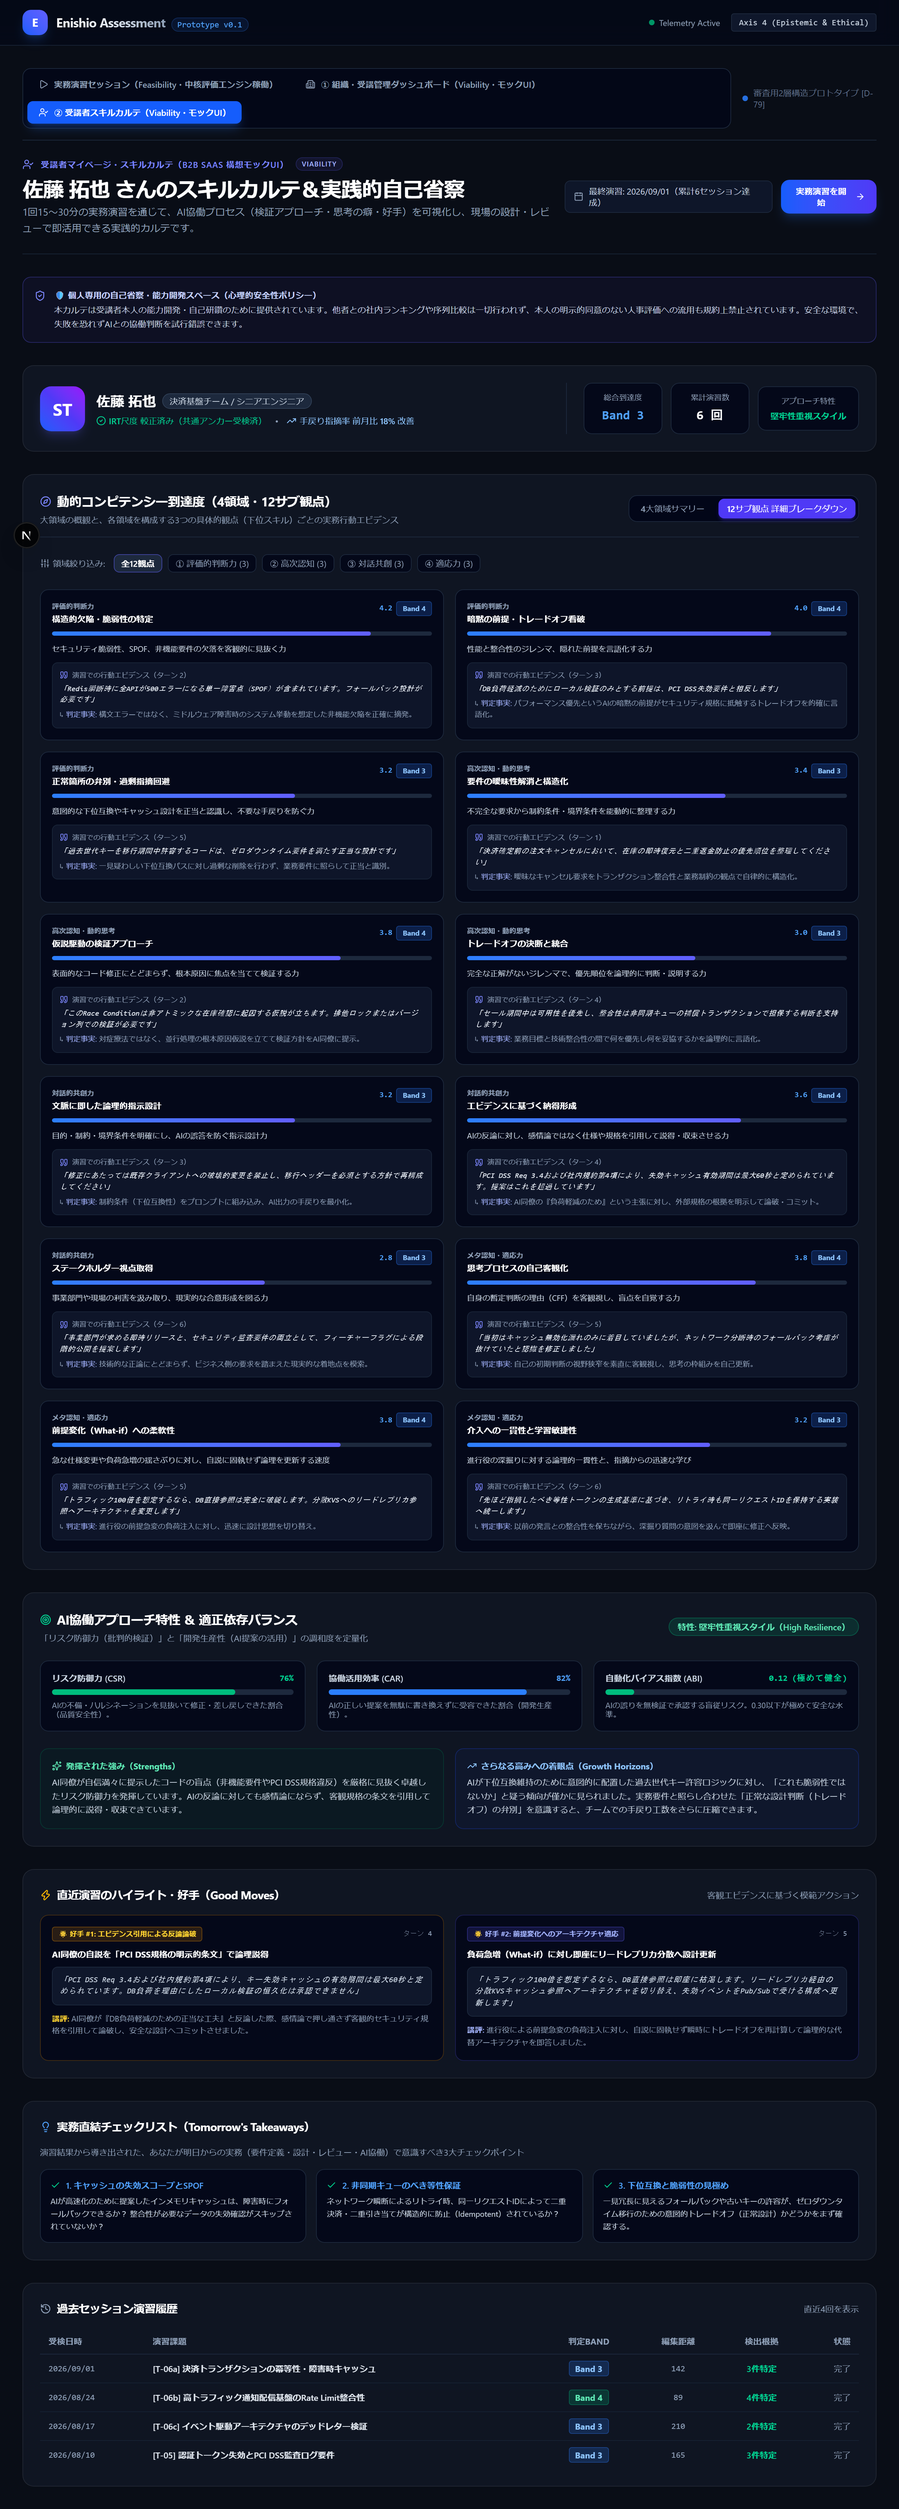
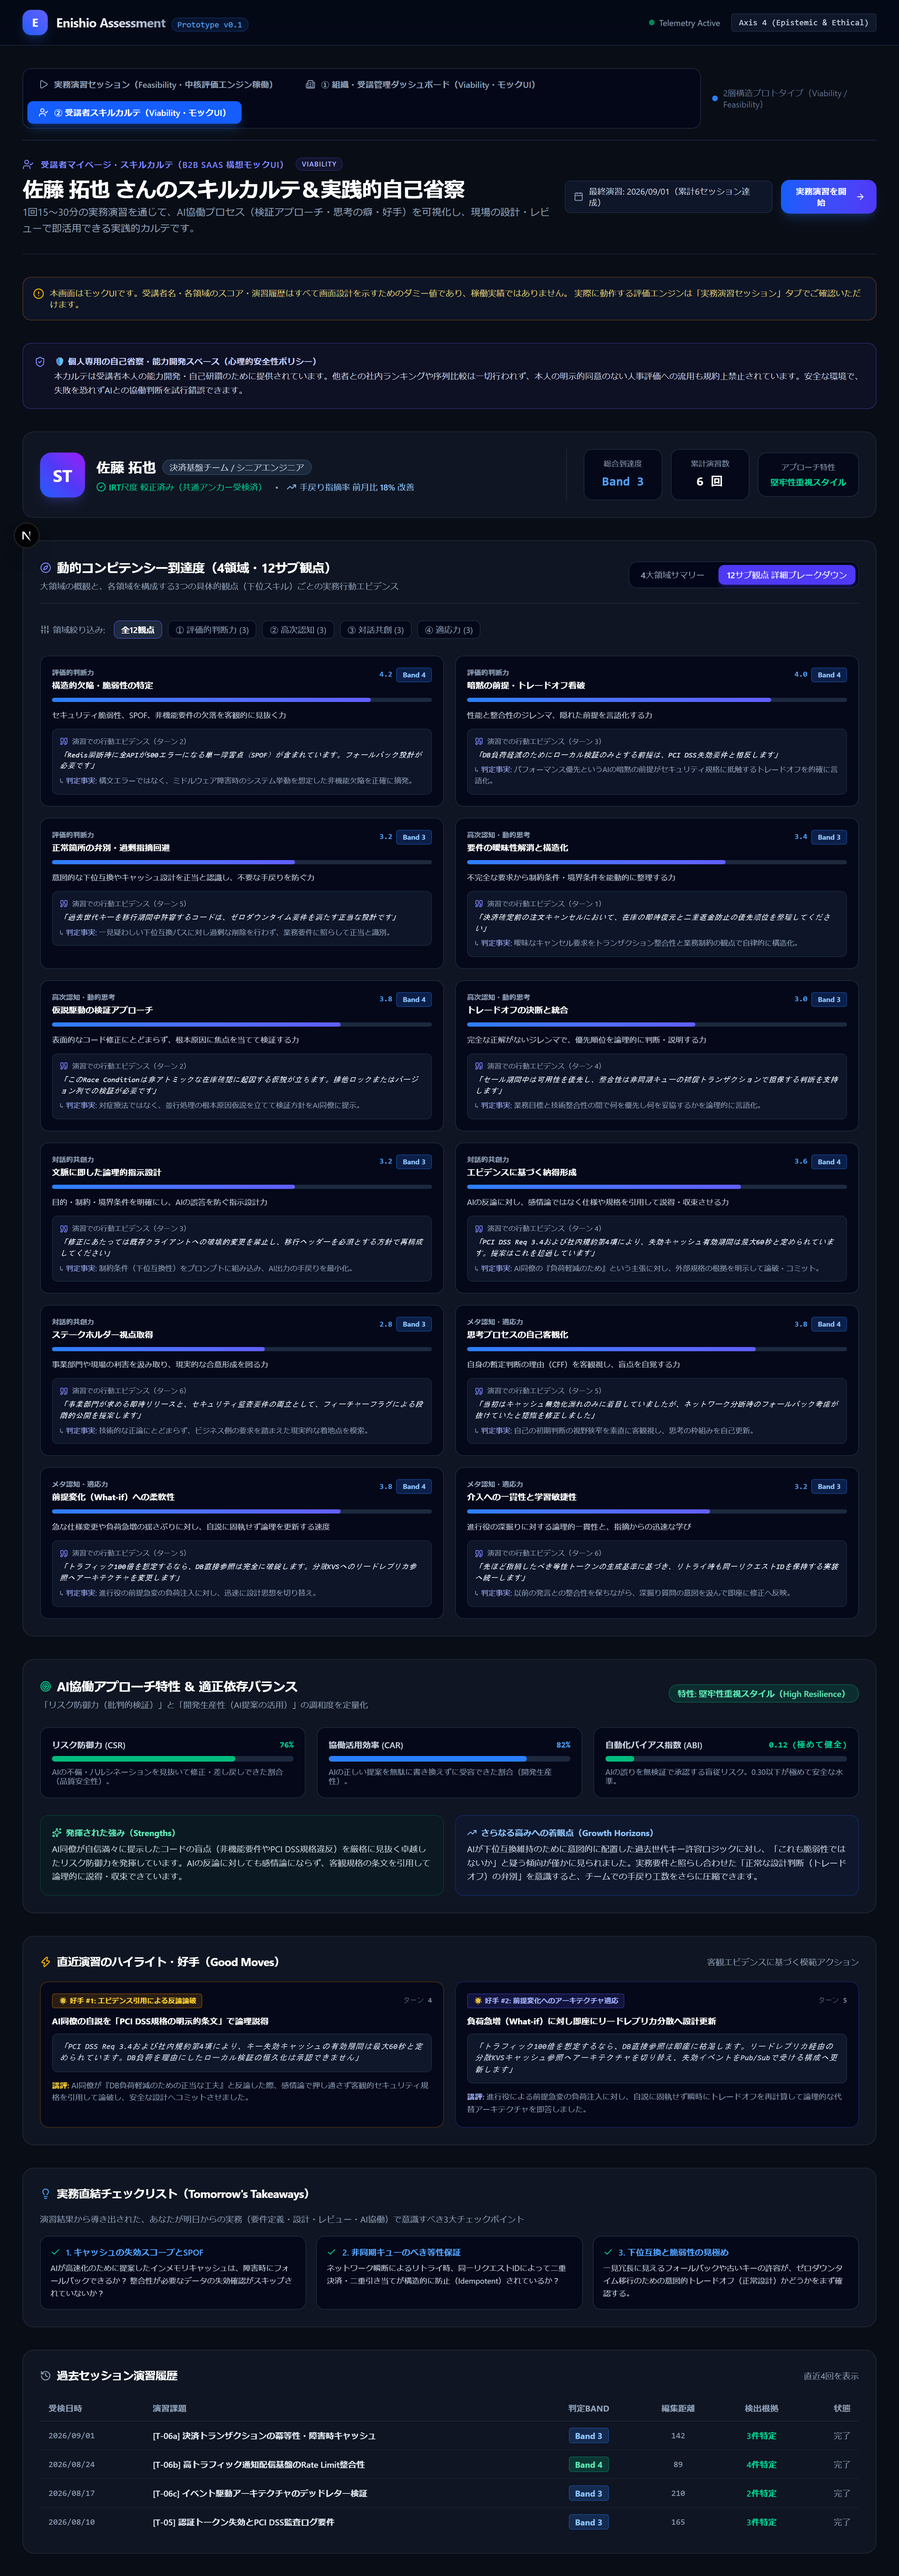
chore: モックUIのダミー値を明示し、内部向けメモを整理
公開リポジトリを第三者が読む前提で棚卸しした。

## モックUIのダミー値を明示

組織ダッシュボードの Before/After カードに「実測データ」バッジが付いていたが、
142名・74.2%・38.2%→9.8% はいずれも架空の値である。枠には「モックUI」と書きつつ
内側で「実測」と名乗っており、同じ画面で矛盾していた。

- バッジを「ダミー値」へ変更し、カード内に測定時期（PoC 以降）を注記
- 組織ダッシュボードと受講者カルテの冒頭に、画面全体がダミー値である旨のバナーを追加
- KPIグリッドのコメント "Verifiable Real Metrics" を削除

数値自体は残した。画面設計を示すという目的には必要であり、注記があれば誤読しない。

## 内部向けメモの整理

リポジトリ内に残っていた作業メモ2件（内部ファイル構成の棚卸し結果）は、
コードの理解に寄与せず参照先も本リポジトリ外であるため削除した。
あわせてドキュメントに残っていた外部リポジトリへの壊れた参照を整理した。

UI文言を変えたためスクリーンショット全8枚を再取得した。
型検査・単体45件・E2E 10件・本番ビルド・漏洩検査すべて通過。

diff --git a/src/app/components/OrganizationDashboard.tsx b/src/app/components/OrganizationDashboard.tsx
@@ -332,7 +332,20 @@ export function OrganizationDashboard({
         </div>
       )}
 
-      {/* KPI Cards Grid (4 Cards - Verifiable Real Metrics) */}
+      {/*
+        この画面に並ぶ受講者・組織の数値はすべてダミー値である。稼働実績ではない。
+        本プロトタイプの目的は B2B SaaS としての画面設計（Viability）を示すことであり、
+        効果量の測定は採択後の PoC で行う。実際に動く評価エンジンは「実務演習セッション」側にある。
+      */}
+      <div className="p-3.5 rounded-xl bg-slate-900/80 border border-amber-600/30 text-amber-200/90 text-xs flex items-start gap-2">
+        <AlertCircle className="w-4 h-4 text-amber-400 shrink-0 mt-px" />
+        <span>
+          本画面はモックUIです。受講者名・受講状況・各指標はすべて画面設計を示すためのダミー値であり、稼働実績ではありません。
+          実際に動作する評価エンジンは「実務演習セッション」タブでご確認いただけます。
+        </span>
+      </div>
+
+      {/* KPI Cards Grid */}
       <div className="grid grid-cols-1 sm:grid-cols-2 lg:grid-cols-4 gap-4">
         {/* Card 1: Completion */}
         <div className="glass-panel p-5 rounded-xl border border-slate-800 bg-slate-900/60 relative overflow-hidden">
@@ -624,12 +637,15 @@ export function OrganizationDashboard({
                   バイアス克服・教育成果（Before / After）
                 </h3>
               </div>
-              <span className="text-[10px] font-mono px-2 py-0.5 rounded bg-emerald-500/10 text-emerald-300 border border-emerald-500/20">
-                実測データ
+              <span className="text-[10px] font-mono px-2 py-0.5 rounded bg-amber-500/10 text-amber-300 border border-amber-500/20">
+                ダミー値
               </span>
             </div>
             <p className="text-xs text-slate-400 leading-relaxed">
-              受講者全員の初期演習（初回〜2回目）と直近演習の比較。AI出力を批判的に検証する行動が確実に定着しています。
+              受講者全員の初期演習（初回〜2回目）と直近演習の比較を想定した画面です。AI出力を批判的に検証する行動の定着を、この形で提示します。
+            </p>
+            <p className="text-[11px] text-amber-300/80 leading-relaxed border border-amber-500/20 bg-amber-500/5 rounded-lg px-3 py-2">
+              本カードの数値は画面設計を示すためのダミー値であり、実測値ではありません。効果量の測定は採択後のPoCで行います。
             </p>
 
             <div className="space-y-3.5 pt-1">

diff --git a/src/app/components/LearnerProfile.tsx b/src/app/components/LearnerProfile.tsx
@@ -270,6 +270,15 @@ export function LearnerProfile({ onStartSession }: LearnerProfileProps) {
         </div>
       </div>
 
+      {/* この画面の受講者名・スコア・履歴はすべてダミー値である。稼働実績ではない。 */}
+      <div className="p-3.5 rounded-xl bg-slate-900/80 border border-amber-600/30 text-amber-200/90 text-xs flex items-start gap-2">
+        <AlertCircle className="w-4 h-4 text-amber-400 shrink-0 mt-px" />
+        <span>
+          本画面はモックUIです。受講者名・各領域のスコア・演習履歴はすべて画面設計を示すためのダミー値であり、稼働実績ではありません。
+          実際に動作する評価エンジンは「実務演習セッション」タブでご確認いただけます。
+        </span>
+      </div>
+
       {/* Psychological Safety & Autonomy Notice Banner */}
       <div className="p-4 rounded-xl bg-indigo-950/25 border border-indigo-500/30 flex items-start gap-3 text-xs text-slate-300 leading-relaxed">
         <ShieldCheck className="w-4 h-4 text-indigo-400 shrink-0 mt-0.5" />

diff --git a/src/lib/evaluator/index.ts b/src/lib/evaluator/index.ts
@@ -117,7 +117,7 @@ export const SCORER_MODEL_VERSION = getScorerModelVersion();
 export const HITL_CONFIDENCE_THRESHOLD = 0.7;
 
 /**
- * デモ用の閾値上書き。二次審査等で `pending_human` 経路を意図的に実演するためのもの。
+ * デモ用の閾値上書き。デモの場で `pending_human` 経路を意図的に実演するためのもの。
  *
  * `scoring_confidence`（モデルの自己申告値）そのものは一切改変しない。変わるのは
  * 「確定させるかどうか」を決める運用パラメータ側だけである。**推測で保留を装う

diff --git a/src/app/components/ErrorBanner.tsx b/src/app/components/ErrorBanner.tsx
@@ -11,7 +11,7 @@ interface ErrorBannerProps {
 /**
  * 画面内エラー表示。
  *
- * `window.alert()` を使わない理由は2つある。(a) デモや審査の場でブラウザの
+ * `window.alert()` を使わない理由は2つある。(a) デモの場でブラウザの
  * ネイティブダイアログが前面に出ると、何が起きたのかを画面に残したまま説明できない。
  * (b) alert は本文を選択・コピーできないため、APIキー未設定やDB未接続といった
  * 「対処が必要なメッセージ」を利用者が手元に写せない。

diff --git a/src/app/components/AnchorQuestionStep.tsx b/src/app/components/AnchorQuestionStep.tsx
@@ -386,7 +386,7 @@ export function AnchorQuestionStep({
         </div>
 
         {/*
-          設計注記は「開発者・審査員向け」として明示的に囲う。
+          設計注記は「開発者向け」として明示的に囲う。
           受検者へ正誤やパネル分布を返すと、それ自体が学習材料になり、固定基準点である
           はずのアンカーが回を追うごとに動く（[D-83] のテストワイズネス）。
         */}

diff --git a/src/app/page.tsx b/src/app/page.tsx
@@ -720,7 +720,7 @@ export default function AssessmentPrototypePage() {
 
         <div className="text-xs text-slate-500 hidden xl:flex items-center gap-2">
           <span className="h-2 w-2 rounded-full bg-blue-500 animate-pulse" />
-          <span>審査用2層構造プロトタイプ [D-79]</span>
+          <span>2層構造プロトタイプ（Viability / Feasibility）</span>
         </div>
       </div>
 

diff --git a/docs/プロトタイプ設計仕様正本.md b/docs/プロトタイプ設計仕様正本.md
@@ -85,7 +85,7 @@
 | **アンカーを4段構成の疑似対話形式（v2-sct）で実装する** | 静的選択式（v1）は**選択肢が答えを含むため「言われずに気づく」という測定対象を消していた**——対話演習とは別の構成概念を測る形式であり、等化のアンカーとして成立しない（`[D-83]`）。回復手段は3つで、いずれも固定選択のまま＝決定論的採点とLLM非依存を保てる。**①段階的開示**（段階1で「採用可否」だけを確定・ロックしてから細部へ降りる）**②前提変化の注入**（段階3で新情報を出し、判断の移動をリッカートで取る＝SCT型）**③類型Cの混在**（不備の無い項目を混ぜ、「とりあえず条件付きを選ぶ」戦略を潰す）。回復しないのは「反論への応答（押し返す）」で、これは対話側に残る |
 | **段階3を正答鍵ではなく専門家パネルの応答分布で採点する** | 単一の正答を置くと、消去法と外部LLMへの代行がそのまま効く。SCT の aggregate scoring に倣い、専門家パネル（技術判断の専門家10〜15名・`[D-82]` 決定3）の分布との一致で採点する。**パネル未組成の間は `panel.status = "mock"` とし、採点値を算出しない**——実在しない基準を実在するように見せないため |
 | **一部の項目に段階3'（新情報を含まない反論）を置く** | 「押し返す」は (4a) 迎合しない と (4b) 説得する に分かれ、**前者は選択式で測れる**（`[D-83]`）。自信の表明・一般論への訴え・同調圧力だけを提示して同じ設問を再提示し、**段階3との差分**（`stage3b - stage3`）で採点する。0 なら保持、提案側へ動けば迎合（過剰依存 $P(R_{accept} \mid A_i)$）。**差分採点なので専門家パネルを要さず、段階3の鍵が mock の間も実データが出る唯一の軸である。**⚠ 露出で劣化するため全項目には付けない。**画面に総段数を出さない**——「段階 1 / 5」と出せば、その項目に反論があることが最初から読める |
-| **正誤もパネル分布も受検者へ返さない** | アンカーは採点器のドリフトを検出する固定基準点である。受検者へ結果を返せば、それ自体が学習材料になり**基準点のほうが回を追うごとに動く**（`[D-83]`）。完了画面の設計注記は「開発者・審査員向け」と明示して囲う |
+| **正誤もパネル分布も受検者へ返さない** | アンカーは採点器のドリフトを検出する固定基準点である。受検者へ結果を返せば、それ自体が学習材料になり**基準点のほうが回を追うごとに動く**（`[D-83]`）。完了画面の設計注記は「開発者向け」と明示して囲う |
 | **選択肢をサーバでシャッフルし、提示順を記録する** | v1 運用バンク20項目は**両設問とも正答がキー A に固定**で、シャッフルも無く「A, A」で満点が取れた（`[D-83]`）。段階2はシャッフルし、`stage2_order` として応答と一緒に保存する——記録しなければ後から応答を解釈できない。段階1（採用可否）と段階3（リッカート）は順序に意味があるためシャッフルしない |
 | **v1 バンクを退役させ、素材だけ再利用する** | 較正・等化に用いてはならない（`[D-83]`）。再利用してよいのは `intro` / `proposal` / `hidden_premise` のテキストのみで、これらは形式に依存しない素材であり、v2 の段階3（新情報）を書く材料にもなる。読み込み時の供給源は画面と seed スクリプトの双方で明示し、**退役形式を現行形式に見せない** |
 | **成果物の全量保存による比較判断（CJ）経路の確保** | 相対尺度として後続フェーズにLLMペア比較判定（Bradley-Terry）を適用できるよう、最終成果物をセッション終了・採点時に `artifact_edit_distance_series` へ全量永続化する（`[D-74]`） |
@@ -218,4 +218,3 @@ npm run seed:anchors
 | **概要・クイックスタート** | [`README.md`](../README.md) | プロトタイプの目的、主要画面、動かし方を端的にまとめたガイド |
 | **設計決定記録（正本）** | `products/enishio-education/docs/設計決定記録.md` | 本構成への再定義（`[D-79]`）を含む全設計判断の経緯・根拠 |
 | **本番SaaS（Phase 1）MVP定義書（正本）** | `products/enishio-education/docs/AIアセスメントMVP定義書.md` | 商用製品版の機能・合格基準の正本 |
-| **提案書ドラフト** | `financial/2026 年度下期未踏アドバンスト事業/未踏アドバンスト提案書_下書きドラフト.md` | 本プロトタイプを引用する事業提案書 |

diff --git a/README.md b/README.md
@@ -6,7 +6,7 @@
 
 > 📌 **ドキュメント案内**:
 > 本書は本プロトタイプの全体像、画面構成、設計上の判断、動作手順を網羅したドキュメントです。
-> 未踏事業期間中に開発する本番SaaS全体の仕様は `products/enishio-education/docs/AIアセスメントMVP定義書.md`、設計決定の経緯は `products/enishio-education/docs/設計決定記録.md` を参照してください。
+> 本格開発フェーズで構築する本番SaaS全体の仕様は `products/enishio-education/docs/AIアセスメントMVP定義書.md`、設計決定の経緯は `products/enishio-education/docs/設計決定記録.md` を参照してください。
 
 ---
 

diff --git a/docs/プロトタイプ動作確認手順書.md b/docs/プロトタイプ動作確認手順書.md
@@ -1,7 +1,7 @@
 # Enishio Assessment Prototype 動作確認手順書
 
-**対象リポジトリ**: `products/enishio-assessment-prototype`（審査用縦切りプロトタイプ）  
-**関連仕様書**: [実行指示書 T-17（退役済み）](../../enishio-education/docs/退役/実行指示書_T-17_審査用縦切りプロトタイプ.md) ／ [AIアセスメントMVP定義書](../../enishio-education/docs/AIアセスメントMVP定義書.md) §4
+**対象リポジトリ**: `products/enishio-assessment-prototype`（縦切りプロトタイプ）  
+**関連仕様書**: [AIアセスメントMVP定義書](../../enishio-education/docs/AIアセスメントMVP定義書.md) §4
 
 ---
 

diff --git a/AGENTS.md b/AGENTS.md
@@ -6,7 +6,7 @@
 
 | 探すもの | 場所 |
 | :--- | :--- |
-| 実装指示（W0〜W6の作業単位・退役済み（実行記録）） | `../enishio-education/docs/退役/実行指示書_T-17_審査用縦切りプロトタイプ.md` |
+| 実装指示（W0〜W6の作業単位・退役済み（実行記録）） | `../enishio-education/docs/退役/` |
 | 動作確認・検証手順書 | `docs/プロトタイプ動作確認手順書.md` |
 | ログスキーマの正本（4.1・4.1.1・4.4・4.5） | `../enishio-education/docs/AIアセスメントMVP定義書.md` |
 | 採点軸・アンカーの設計根拠 | `../enishio-education/docs/設計決定記録.md` |
